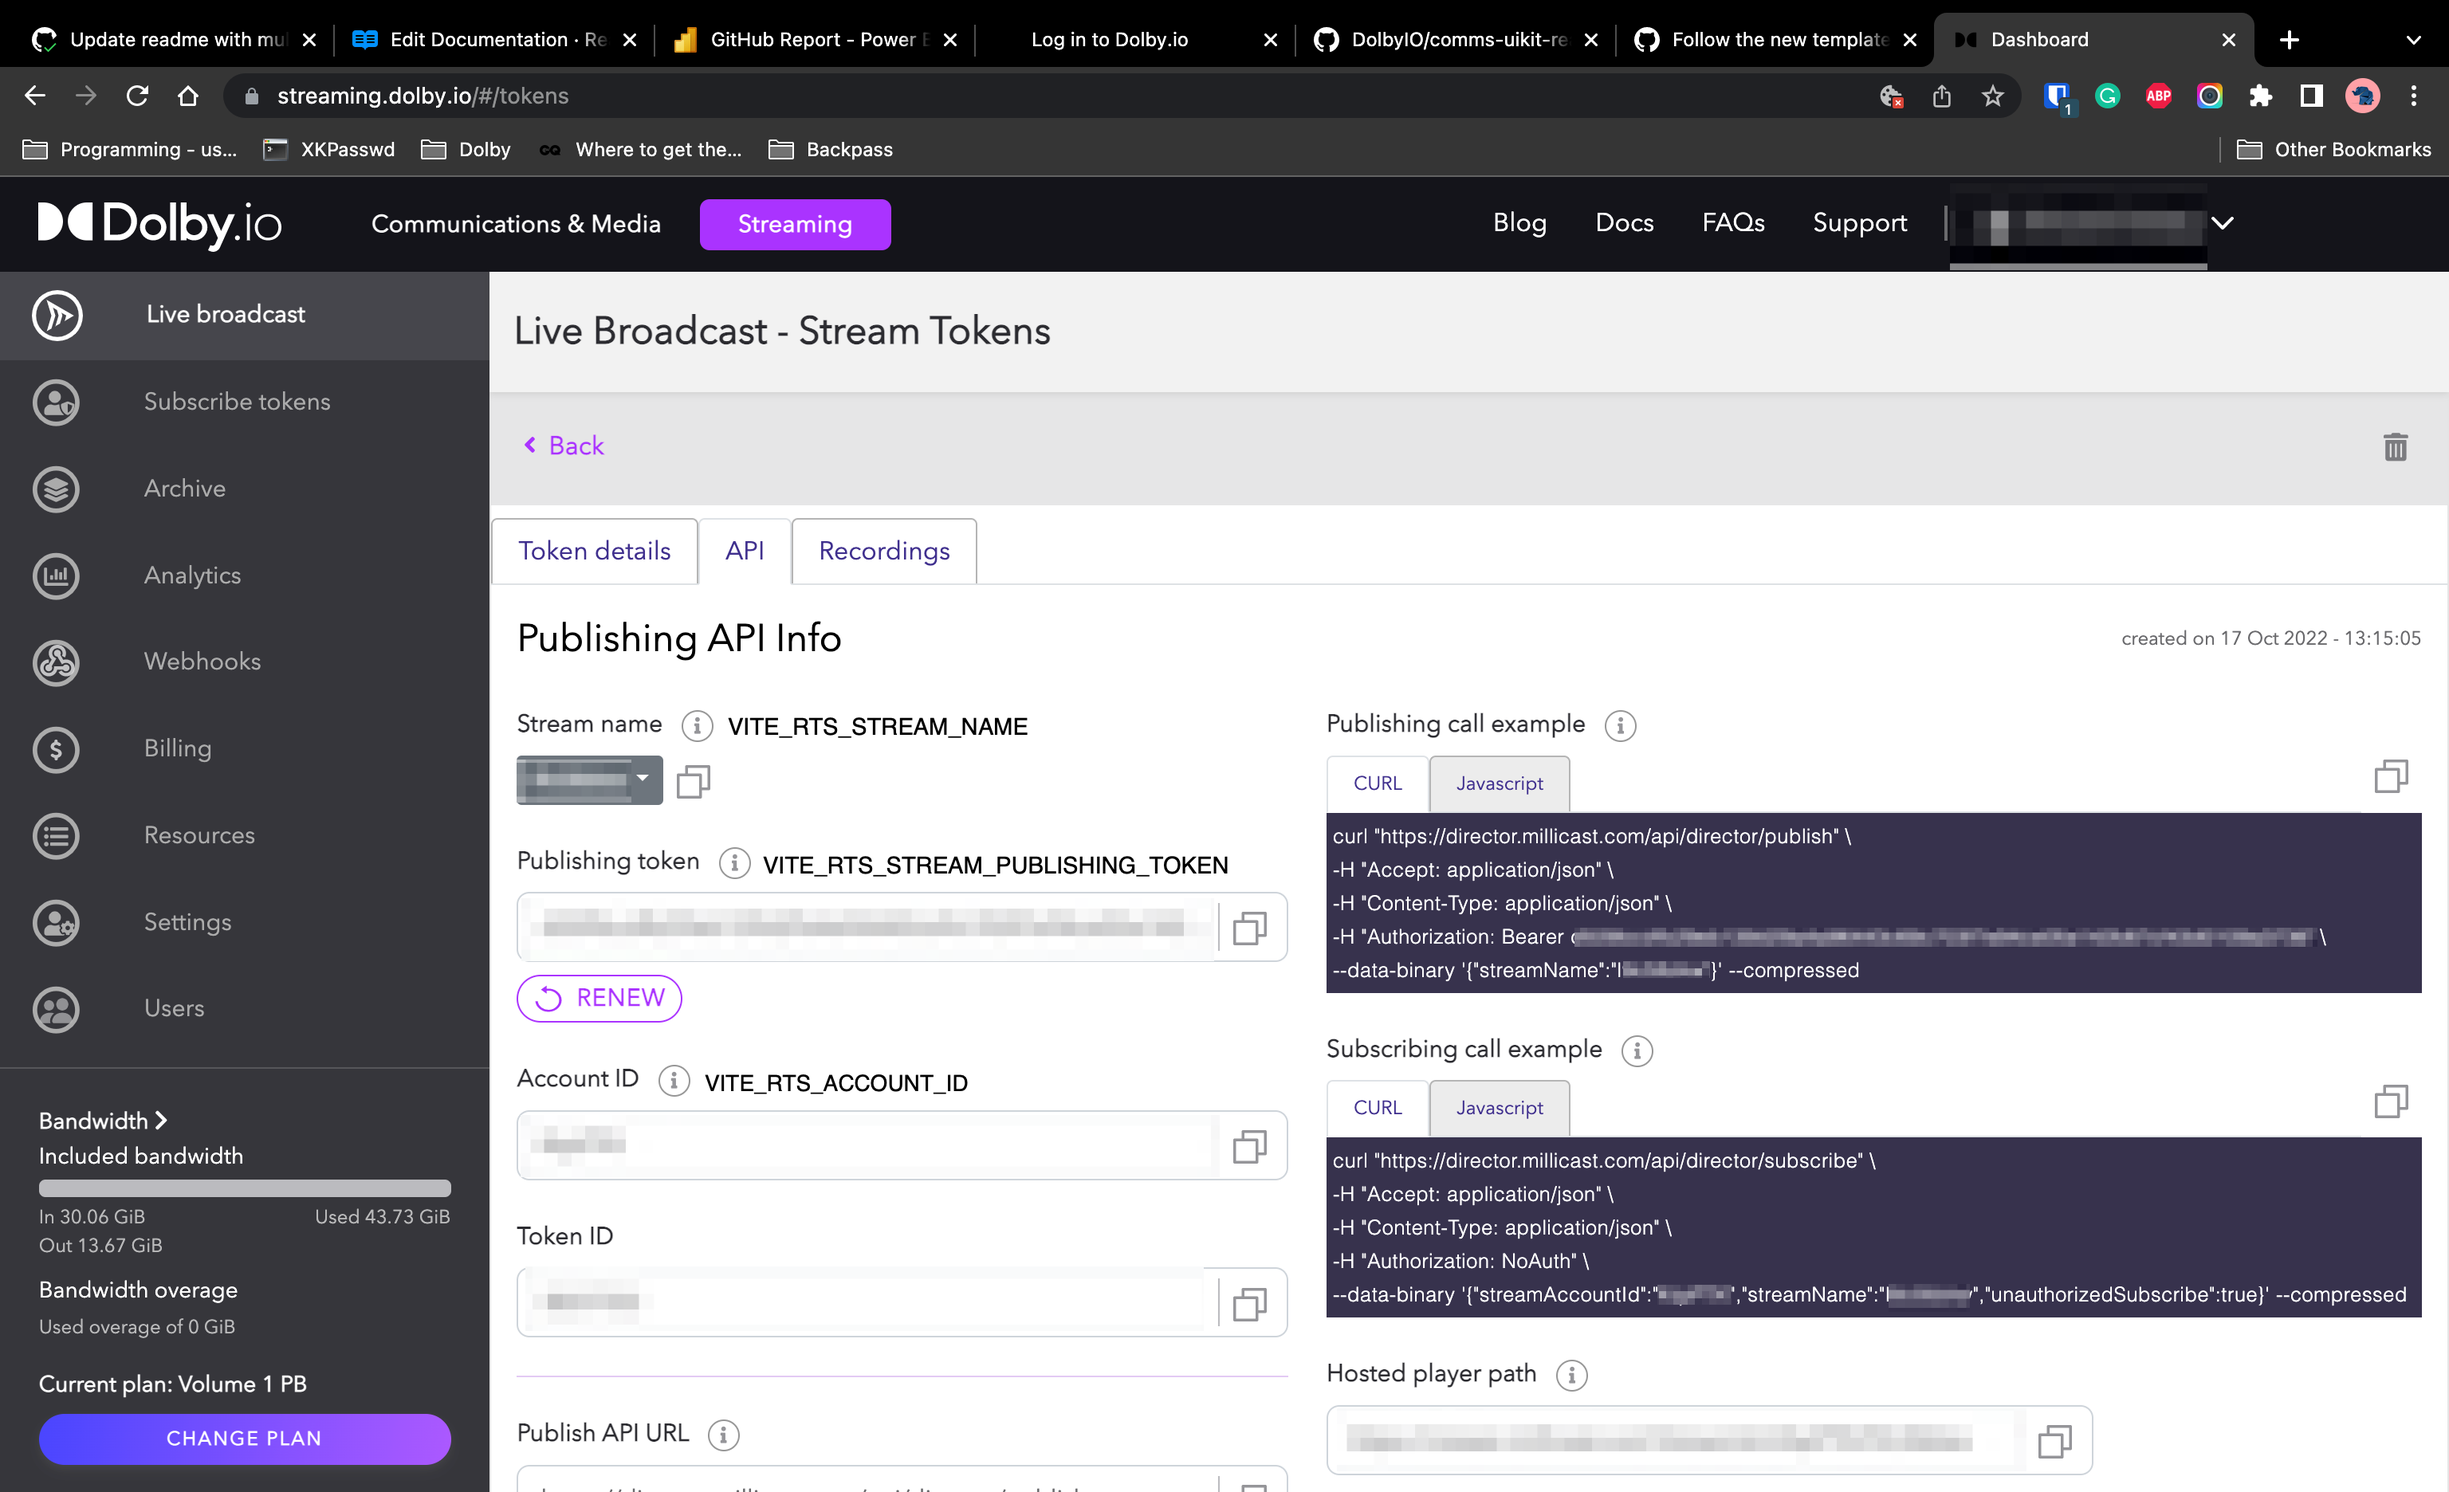
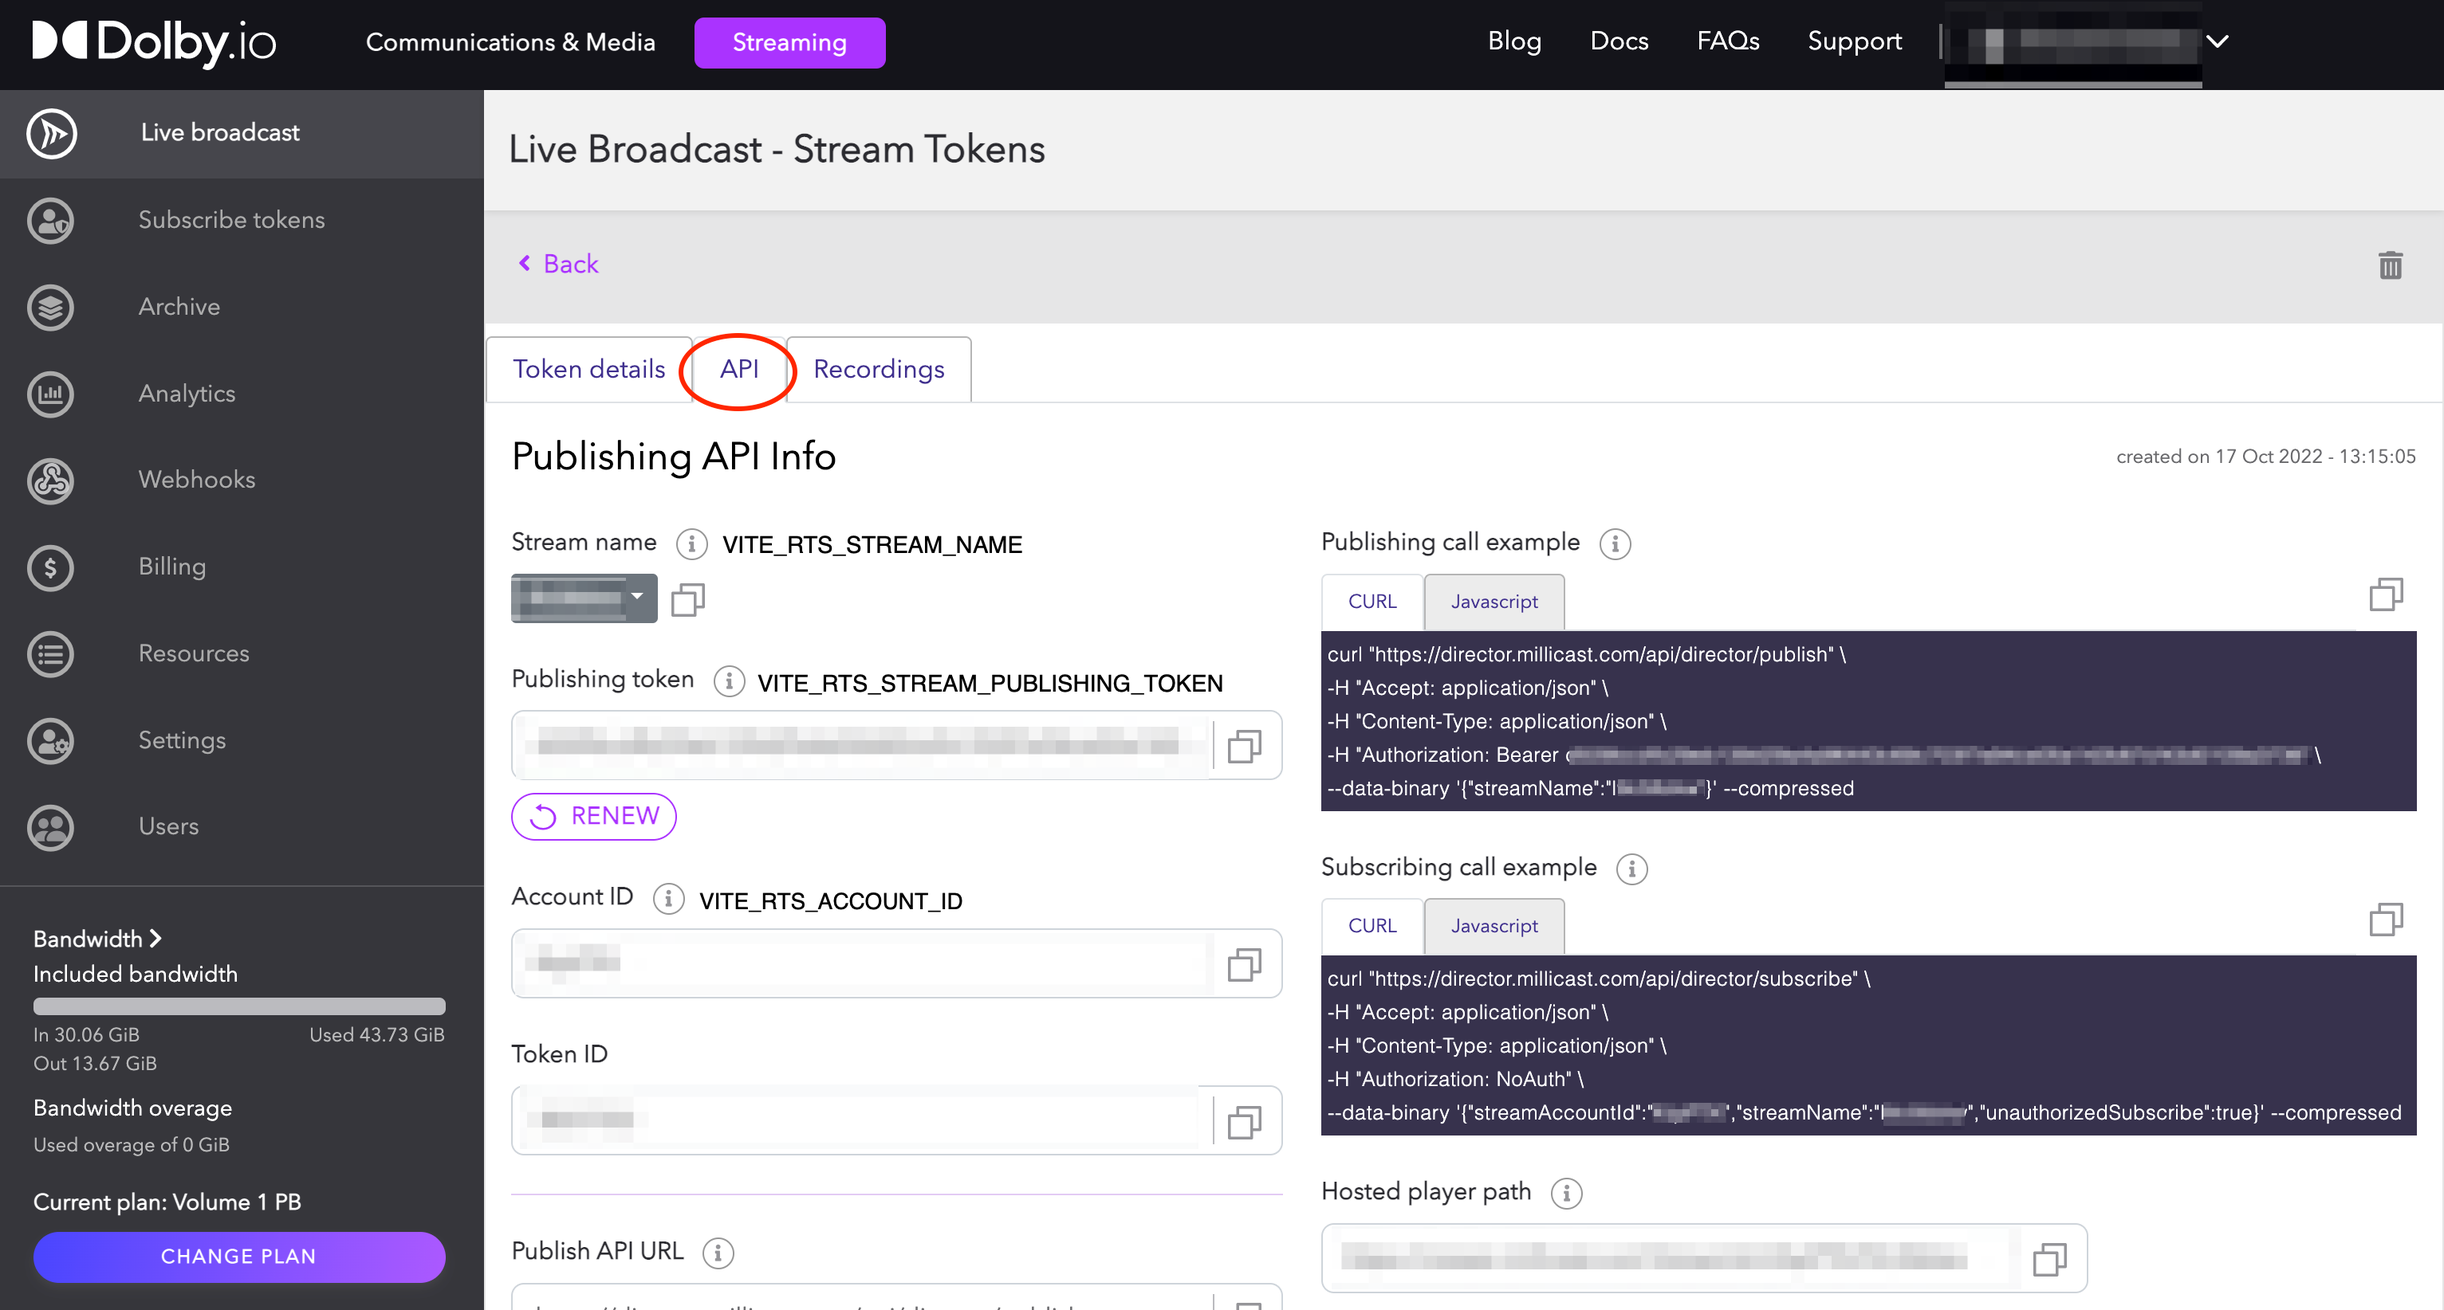
Update read me and add missing files (#351)
* Update read me and add missing files

* Fix lint issue

* Format the docs

diff --git a/README.md b/README.md
@@ -7,7 +7,6 @@
 ## Overview
 
 Quickly stand-up a lightning fast, broadcast quality, real-time streaming app with ultra low-latency (sub 500ms).
-Want to learn more? Check out the [Real Time Streaming app gallery page](https://docs.dolby.io/communications-apis/docs/real-time-streaming-publisher-viewer-sample-apps).
 
 ## Getting Started
 
@@ -21,7 +20,89 @@ Want to learn more? Check out the [Real Time Streaming app gallery page](https:/
 
 To setup your Dolby.io account, go to the [Dolby.io dashboard](https://dashboard.dolby.io/signup/) and complete the form. After confirming your email address, you will be logged in.
 
-## Features and roadmap
+## Project structure
+
+This project is setup as a monorepo, and contains the following:
+
+- Publisher app (under `apps/publisher`)
+- Viewer/subscriber app (under `apps/viewer`)
+- Tests (under `apps/e2e-test/*` )
+- Shared components/hooks (under `libs/*`)
+- Storybook stories (under `.apps/stories/*`)
+
+> Note: We chose to use [yarn](https://yarnpkg.com/) and [nx](https://nx.dev/) in to our sample app because it helps with our workflow. You are welcome to choose tooling that suits your needs.
+
+The RTS solution is broken down into 2 parts - the publisher (or the broadcaster) and the subscriber (or the viewer). This repository contains sample code for both parts.
+
+## Installation and setup
+
+To install the libraries necessary, clone the repo. Then from the root directory of the project, run the following command in a terminal window:
+
+```bash
+yarn
+```
+
+### RTS Tokens
+
+In order for this application to work, you need three tokens - `stream name`, `stream account id` and `stream publishing token`. These tokens can be found in your [Dolby.io dashboard](https://streaming.dolby.io/#/tokens), under the <ins>**Streaming**</ins> tab for a given token.
+
+![token create](docs/img/setup_create_new.png)
+
+To allow publishing from multiple sources to work with your token, remember to go to advanced settings and enable "Multisource".
+
+![multi-source](docs/img/token_multi_source.png)
+
+Once created, you can grab the stream name, publisher token and stream ID from the Token details page, under the <ins> API </ins>tab.
+
+![tokens screenshot](docs/img/tokens.png)
+
+For your application to pick these values up, you can either set them as environment variables or store them in a `.env` file. The `.env` file must be under `apps/publisher/` and `apps/viewer/`.
+
+```bash
+VITE_RTS_STREAM_NAME=<your stream name>
+VITE_RTS_STREAM_PUBLISHING_TOKEN=<your stream token>
+VITE_RTS_ACCOUNT_ID=<your account id>
+```
+
+**note** : This file is typically not added to git. When you clone the repo, you will not find this file and will have to create one yourself. The `.env.example` app can be used as a template with basic keys. Rename the file to `.env` and insert your tokens to get the file up and running.
+
+![env file folder structure](docs/img/env.png)
+
+**Note**: Please set these env variables before you launch the apps. You can either set them via the command line in your shell environment or by entering them in your .env file.
+
+#### Configuring the viewer link
+
+The viewer link is configured in the `.env` file in your `apps/publisher` directory, or in your shell/systen environment variables. To set the URL, insert/update the following variable:
+
+```bash
+VITE_RTS_VIEWER_BASE_URL=<Your URL goes here>
+```
+
+> If you are using a particular port number, please add this to the URL. The best way to do this is to first [run the viewer app](#running-the-viewer-app), grab the URL from your browser and add it to your `.env` file as such.
+
+```bash
+VITE_RTS_VIEWER_BASE_URL=http://localhost:5174/
+```
+
+#### Running the publisher app
+
+```bash
+yarn nx serve publisher
+```
+
+**Note**: Remember to grant the publisher app all the necessary camera and microphone permissions.
+
+![permissions](docs/img/permissions.png)
+
+#### Running the viewer app
+
+To run your app in dev mode, run the following command in your terminal and open the browser:
+
+```bash
+yarn nx serve viewer
+```
+
+## Features, roadmap and limitations
 
 ### RTS Publisher
 
@@ -41,116 +122,20 @@ To setup your Dolby.io account, go to the [Dolby.io dashboard](https://dashboard
 
 - [x] View streams
 - [x] Mute audio and video
-- [x] Observing stream statistics
 - [x] Select incoming stream quality with simulcast
 - [x] Ability to see stats for each individual source
 - [ ] Chromecast support
 - [ ] Picture in picture support
 
-## Project structure
+### Issues and Bugs
 
-This project is setup as a [yarn](https://yarnpkg.com/) based [nx-managed](https://nx.dev/) monorepo, and contains the following:
+The apps and components provided here should be used as reference material. Although we have taken great care in creating these, please note that they are not intended for real production use and there may be some bugs.
 
-- Publisher app (under `apps/publisher`)
-- Viewer/subscriber app (under `apps/viewer`)
-- Tests (under `apps/e2e-test/*` )
-- Shared components/hooks (under `libs/*`)
-- Storybook stories (under `.apps/stories/*`)
+Please report any issues under `Issues` on our [GitHub](https://github.com/dolbyio-samples/stream-demo-react-millicast/issues) and appropriately label them. Please review the existing open issues before raising a new one.
 
-The RTS solution is broken down into 2 parts - the publisher (or the broadcaster) and the subscriber (or the viewer). This repository contains sample code for both parts.
+### Browser compatibility
 
-## Installation and setup
-
-To install the libraries necessary, clone the repo. Then from the root directory of the project, run the following command in a terminal window:
-
-```bash
-yarn
-```
-
-### RTS Tokens
-
-In order for this application to work, you need three tokens - `stream name`, `stream account id` and `stream publishing token`. These tokens can be found in your [Dolby.io dashboard](https://streaming.dolby.io/#/tokens), under the streaming tab for a given token.
-
-![token create](docs/img/setup_create_new.png)
-
-To allow screen share to work with your token, remember to go to advanced settings and enable "Multisource".
-
-![multi-source](docs/img/token_multi_source.png)
-
-Once created, you can grab the stream name, publisher token and stream ID from the Token details page.
-
-![tokens screenshot](docs/img/tokens.png)
-
-For your application to pick these values up, you can either set them as environment variables or store them in a .env file. The `.env` file must be under `apps/publisher/` and `apps/viewer/`.
-
-**note** : This file is typically not added to git. When you clone the repo, you will not find this file and will have to create one yourself. The `.env.example` app can be used as a template with basic keys. Rename the file to `.env` and insert your tokens to get the file up and running.
-
-![env file folder structure](docs/img/env.png)
-
-```bash
-VITE_RTS_STREAM_NAME=<your stream name>
-VITE_RTS_STREAM_PUBLISHING_TOKEN=<your stream token>
-VITE_RTS_ACCOUNT_ID=<your account id>
-```
-
-**Note**: Please set these env variables before you launch the apps. You can either set them via the command line in your bash/zsh environment or by entering them in your .env file.
-
-#### Configuring the viewer link
-
-The viewer link is configured in the `.env` file in your `apps/publisher` directory, or in your bash/zsh/systen environment variables. To set the URL, insert/update the following variable:
-
-```bash
-VITE_RTS_VIEWER_BASE_URL=<Your URL goes here>
-```
-
-> If you are using a particular port number, please add this to the URL. The best way to do this is to first [run the viewer app](#running-the-viewer-app), grab the URL from your browser and add it to your `.env` file as such.
-
-```bash
-VITE_RTS_VIEWER_BASE_URL=http://localhost:5174/
-```
-
-#### Running the publisher app in dev mode
-
-```bash
-yarn nx serve publisher
-```
-
-**Note**: Remember to grant the publisher app all the necessary camera and microphone permissions.
-
-![permissions](docs/img/permissions.png)
-
-#### Building the publisher app and previewing it
-
-Run the following command in terminal and open the browser:
-
-```bash
-yarn nx preview publisher
-```
-
-#### Running the viewer app
-
-To run your app in dev mode, run the following command in your terminal and open the browser:
-
-```bash
-yarn nx serve viewer
-```
-
-And to run in preview mode
-
-```bash
-yarn nx preview viewer
-```
-
-#### Run the end to end test
-
-Refer to this guide [here](apps/e2e-test/README.md).
-**note** Please ensure your RTS tokens are present either in a .env file or as environment variables.
-
-## Browser compatibility
-
-While utmost care has been taken to ensure this works across all browsers, please note that there are some limitations and therefore, we recommend Chromium based browsers or Safari as the best means to test out these applications. Some browser known issues are:
-
-- Simulcast only works when the publisher is on Chrome (and uses H.264 or VP8 as the codec).
+While utmost care has been taken to ensure this works across all browsers, please note that there are some limitations and therefore, we recommend Chromium based browsers or Safari as the best means to test out these applications. Features such as simulcast only work on Chromium based browsers, for example.
 
 Generally speaking, our app has been tested to work on the following browser versions:
 
@@ -160,12 +145,8 @@ Generally speaking, our app has been tested to work on the following browser ver
 
 There are known limitations with webRTC and Mozilla Firefox, and therefore the browser is not recommended.
 
-## Known Issues
-
-The apps and components provided here should be used as reference material. Although we have taken great care in creating these, please note that they are not intended for real production use and there may be some bugs.
-
-Please report any issues under `Issues` on our [GitHub](https://github.com/dolbyio-samples/stream-demo-react-millicast/issues) and appropriately label them. Please review the existing open issues before raising a new one.
-
 ## More resources
+
+Want to learn more? Check out the [Real Time Streaming app gallery page](https://docs.dolby.io/communications-apis/docs/real-time-streaming-publisher-viewer-sample-apps).
 
 Looking for more sample apps and projects? Head to the [Project Gallery](https://docs.dolby.io/communications-apis/page/gallery).

diff --git a/additional-configurations.md b/additional-configurations.md
@@ -1,0 +1,21 @@
+# Additional Configurations
+
+## Running the apps in preview mode
+
+Preview mode is when Yarn optimises the build and makes it ready for distribution purposes.
+To run the publisher app in preview mode, run the following command in your terminal window
+
+```bash
+yarn nx preview publisher
+```
+
+Likewise for the viewer, run the following command
+
+```bash
+yarn nx preview viewer
+```
+
+## Running End-To-End tests
+
+Refer to this guide [here](apps/e2e-test/README.md).
+**note** Please ensure your RTS tokens are present either in a .env file or as environment variables.
